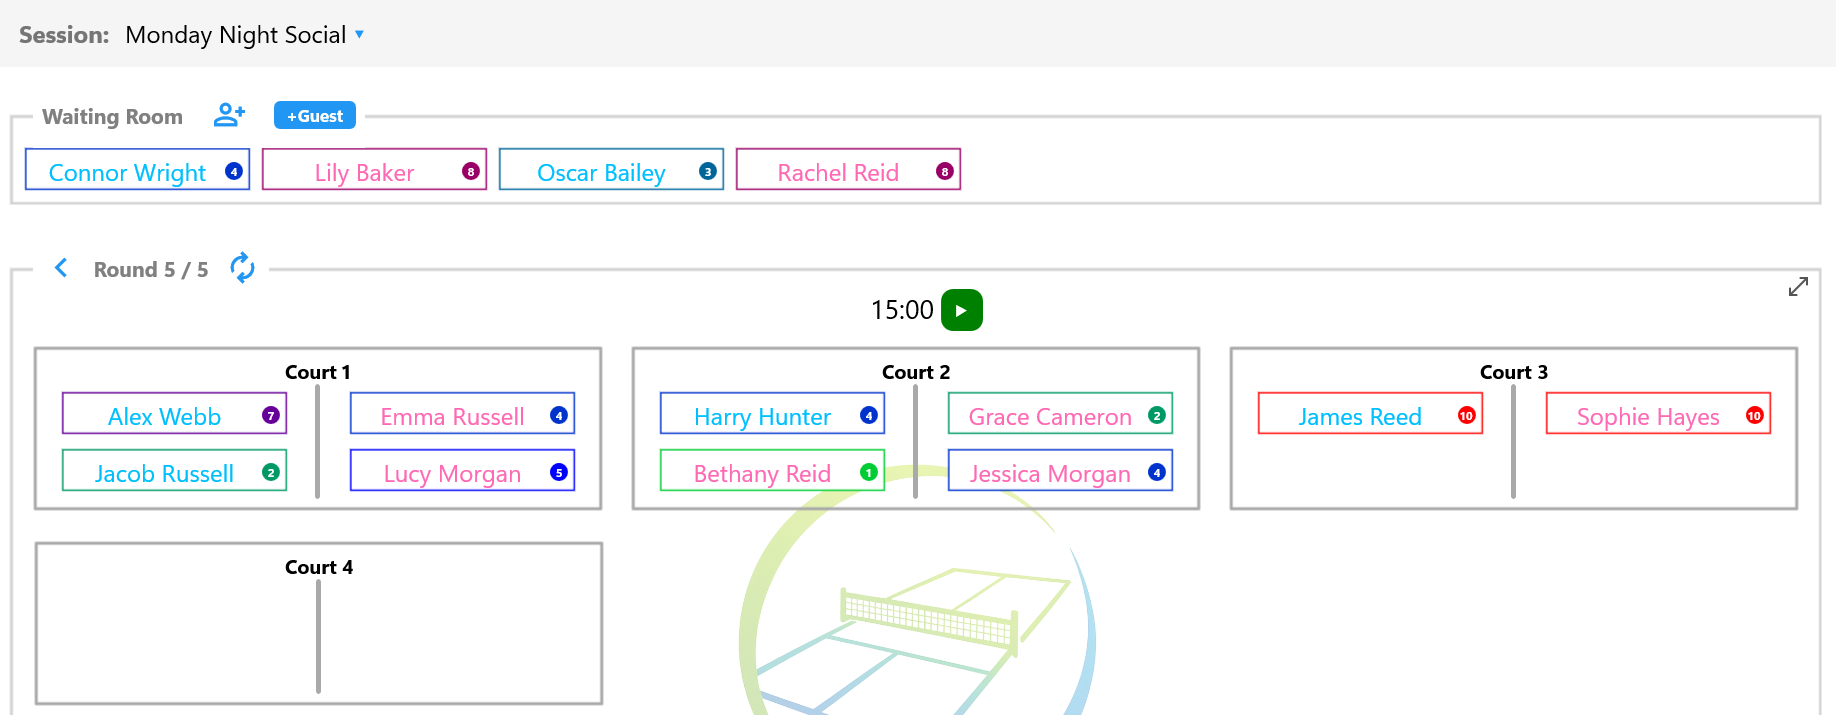
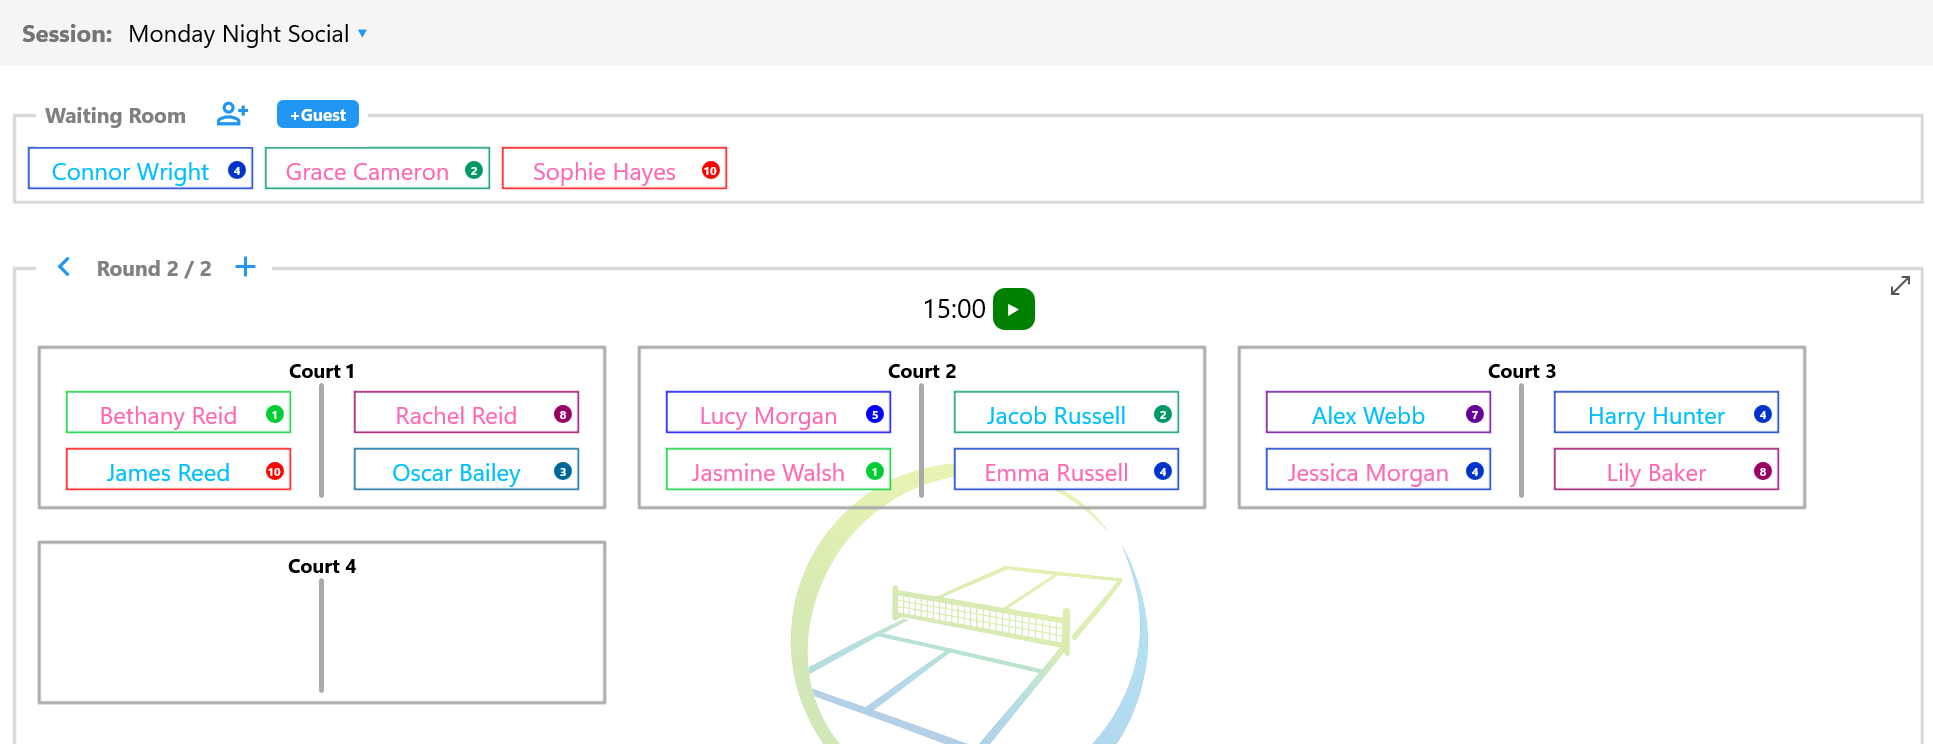
deletion help

diff --git a/help/01-getting-started.md b/help/01-getting-started.md
@@ -1,104 +1,56 @@
 # Getting Started
 
-
-
 Welcome to CourtZ.
-
-
 
 CourtZ helps you organise court sports sessions by managing attendance, generating balanced games and keeping play running smoothly.
 
-
-
 Whether you're organising a one-off session with friends or running a regular club session, CourtZ can adapt to the way you organise your sessions.
-
-
 
 ## Free Trial
 
-
-
 CourtZ includes a fully functional 30-day trial.
-
-
 
 The first time you start CourtZ, you'll be asked for your club name and email address. This starts your trial and personalises your copy of CourtZ.
 
-
-
-When you purchase CourtZ, you can activate your licence at any time from \*\*About\*\* on the More menu. Your club details, licence status and expiry date (where applicable) are displayed there.
-
-
+When you purchase CourtZ, you can activate your licence at any time from **About** on the **More** menu. Your club details, licence status and expiry date (where applicable) are also displayed there.
 
 ## Getting Started
 
-
-
 CourtZ can be used in two ways.
-
-
 
 ### Using Session Profiles (Recommended)
 
+If you organise regular club sessions, **Session Profiles** are the recommended way to use CourtZ.
 
+A [Session Profile](03-session-profiles.md) remembers the players and settings you regularly use, making it quick and easy to prepare each new session.
 
-If you organise regular club sessions, Session Profiles are the recommended way to use CourtZ.
+To get started:
 
+1. Create your players.
+2. Create a Session Profile.
+3. Start your first session.
 
-
-A Session Profile remembers the players and settings you regularly use, making it quick and easy to prepare each new session.
-
-
-
-To get started, you'll first create your players, then create a Session Profile.
-
-
-
-Continue to \*\*Players\*\* to begin.
-
-
+Continue to [Players](02-players.md) to begin.
 
 ### Without a Session Profile
 
-
-
 If you're organising a one-off session or don't need to save your setup, you can simply add players directly to the Waiting Room and begin generating games.
-
-
 
 Players can be:
 
-
-
 - existing players from your master player list
-
 - guest players created for the current session
-
-
 
 At the end of the session, guest players can be discarded or added to your master player list for future use.
 
-
-
-Continue to \*\*Running a Session\*\* to learn more.
-
-
+Continue to [Running a Session](04-running-a-session.md) to learn more.
 
 ## Which approach should I choose?
 
-
-
-If you regularly organise the same group of players, we recommend using Session Profiles.
-
-
+If you regularly organise the same group of players, we recommend using **Session Profiles**.
 
 If you're organising an occasional session, you can work directly from the Waiting Room without creating a Session Profile.
 
-
-
 ---
 
-
-
 [🏠 Help Home](00-index.md) | [Players →](02-players.md)
-

diff --git a/help/03-session-profiles.md b/help/03-session-profiles.md
@@ -41,6 +41,28 @@ The Session Profile is now available whenever you start a new session.
 
 ---
 
+## Deleting a Session Profile
+
+To help prevent accidental deletion, Session Profiles are deleted using a two-step process.
+
+To delete a Session Profile:
+
+1. Tap and hold the Session Profile.
+2. A red **bin** button appears beside the Session Profile name.
+3. Tap the red **bin** button within **3 seconds**.
+
+<img src="images/delete-session-profile.png"
+     alt="Delete Session Profile"
+     width="220">
+
+*Tap and hold a Session Profile to reveal the red bin button. Select it within 3 seconds to delete the Session Profile.*
+
+If the red **bin** button is not selected within **3 seconds**, it disappears and the Session Profile is not deleted.
+
+Deleting a Session Profile removes only the profile. Players remain in the master player list.
+
+---
+
 ## Session Settings
 
 Each Session Profile stores the default settings used whenever a new session is started.
@@ -71,6 +93,24 @@ You can:
 - remove players from the Session Profile
 
 Player details such as names and Skill Levels are managed on the **Players** page.
+
+### Removing Players from a Session Profile
+
+To help prevent accidental removal, players are removed from a Session Profile using a two-step process.
+
+To remove a player:
+
+1. Tap and hold the player's name.
+2. A red **bin** button appears beside the player's name.
+3. Tap the red **bin** button within **3 seconds**.
+
+<img src="images/delete-player.png"
+     alt="Remove player from Session Profile"
+     width="220">
+
+*Tap and hold a player's name to reveal the red bin button. Select it within 3 seconds to remove the player from the Session Profile.*
+
+If the red **bin** button is not selected within **3 seconds**, it disappears and the player remains in the Session Profile.
 
 Any changes made to a player's details are automatically reflected in every Session Profile that includes that player.
 

diff --git a/help/04-running-a-session.md b/help/04-running-a-session.md
@@ -103,6 +103,27 @@ CourtZ uses the Waiting Room whenever new games are generated, automatically mov
 
 *The Waiting Room contains players waiting for their next game. As courts become available, CourtZ automatically selects players from the Waiting Room when generating the next round.*
 
+### Removing a Player from the Waiting Room
+
+If a player leaves the session before being selected for a game, they can be removed directly from the Waiting Room.
+
+To help prevent accidental removal, players are removed using a two-step process.
+
+To remove a player:
+
+1. Tap and hold the player's name.
+2. A red **bin** button appears beside the player's name.
+3. Tap the red **bin** button within **3 seconds**.
+
+<img src="images/delete-player.png"
+     alt="Remove player from Waiting Room"
+     width="220">
+
+*Tap and hold a player's name to reveal the red bin button. Select it within 3 seconds to remove the player from the current session.*
+
+If the red **bin** button is not selected within **3 seconds**, it disappears and the player remains in the session.
+
+Removing a player from the Waiting Room affects only the current session. The player remains in the master player list and in any Session Profiles to which they belong.
 ---
 
 ## What's Next?

diff --git a/help/02-players.md b/help/02-players.md
@@ -77,14 +77,16 @@ To help prevent accidental deletion, players are deleted using a two-step proces
 To delete a player:
 
 1. Tap and hold the player's name.
-2. A red **Delete** icon appears within the player label.
-3. Tap the red **Delete** icon within **3 seconds**.
+2. A red **bin** button appears beside the player's name.
+3. Tap the red **bin** button within **3 seconds**.
 
 <img src="images/delete-player.png"
      alt="Delete player"
      width="140">
 
-*Tap and hold a player's name to reveal the Delete icon. If it is not selected within 3 seconds, it disappears.*
+*Tap and hold a player's name to reveal the red bin button. Select it within 3 seconds to delete the player.*
+
+If the red **bin** button is not selected within **3 seconds**, it disappears and the player is not deleted.
 
 If the player belongs to one or more Session Profiles, CourtZ automatically removes the player from those profiles.
 
